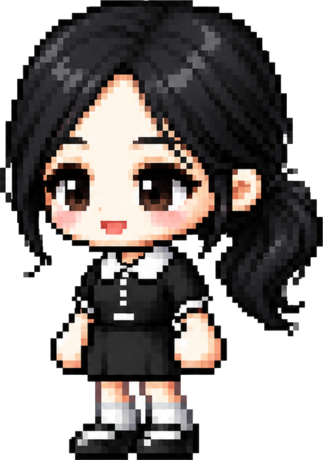
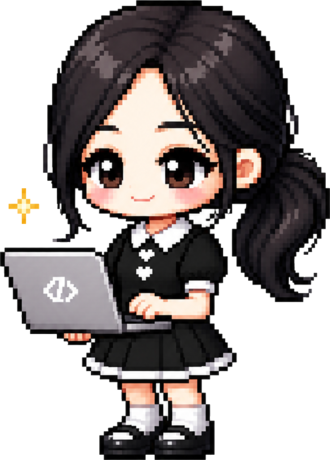
feat(tappytype): SEO 메타 단일 소스 헬퍼·main 랜드마크·접근성 100 / 만든 사람 노트북 캐릭터 교체
- SEO 단일 소스: scripts/tappytype/seo.config.ts(상수) + build-meta.ts 생성기.
  값은 config 한 곳에서만 수정 후 `pnpm tappytype:meta`로 index.html
  <!-- SEO:START --> ~ <!-- SEO:END --> 블록(title·OG·Twitter·robots·
  theme-color·canonical·JSON-LD) 일괄 주입. 멱등.
- 정적 페이지라 OG/Twitter는 빌드타임 주입(스크레이퍼는 JS 미실행)
- 접근성: <main> 랜드마크 추가 → Lighthouse A11y 98→100
- SEO 보강: Twitter 카드, og:site_name·locale·image 치수·alt, JSON-LD(WebSite+SoftwareApplication)
- 만든 사람 캐릭터: 후드티 → 노트북 든 원피스 버전으로 교체(width/height 동기화)
- Lighthouse 모바일: 접근성·Best Practices·SEO·Agentic 모두 100

diff --git a/public/tappytype/index.html b/public/tappytype/index.html
@@ -3,6 +3,7 @@
 <head>
 <meta charset="utf-8">
 <meta name="viewport" content="width=device-width, initial-scale=1">
+<!-- SEO:START — scripts/tappytype/seo.config.ts 에서 값 수정 후 `pnpm tappytype:meta` 실행. 이 블록은 생성되므로 직접 수정 금지 -->
 <title>TappyType — 내 손글씨가 진짜 폰트가 돼요</title>
 <meta name="description" content="아이패드와 애플펜슬로 만드는 나만의 한글 손글씨 폰트. 몇 글자만 쓰면 AI가 나머지를 내 글씨체로 채우고, 진짜 .ttf 폰트로 내보내요.">
 <meta property="og:title" content="TappyType — 내 손글씨가 진짜 폰트가 돼요">
@@ -10,7 +11,48 @@
 <meta property="og:image" content="https://usejiin.link/tappytype/assets/og-image.jpg">
 <meta property="og:type" content="website">
 <meta property="og:url" content="https://usejiin.link/tappytype">
+<meta property="og:site_name" content="TappyType">
+<meta property="og:locale" content="ko_KR">
+<meta property="og:locale:alternate" content="en_US">
+<meta property="og:image:width" content="1024">
+<meta property="og:image:height" content="1024">
+<meta property="og:image:alt" content="TappyType — 아이패드 손글씨 폰트 메이커">
+<meta name="twitter:card" content="summary_large_image">
+<meta name="twitter:title" content="TappyType — 내 손글씨가 진짜 폰트가 돼요">
+<meta name="twitter:description" content="애플펜슬로 몇 글자만 쓰면 AI가 나머지 한글을 내 글씨체로 채워요. 진짜 폰트(.ttf)로 내보내서 어디서든 쓰세요.">
+<meta name="twitter:image" content="https://usejiin.link/tappytype/assets/og-image.jpg">
+<meta name="robots" content="index, follow">
+<meta name="theme-color" content="#FFF7F3">
 <link rel="canonical" href="https://usejiin.link/tappytype">
+<script type="application/ld+json">
+{
+  "@context": "https://schema.org",
+  "@graph": [
+    {
+      "@type": "WebSite",
+      "@id": "https://usejiin.link/tappytype/#website",
+      "url": "https://usejiin.link/tappytype",
+      "name": "TappyType",
+      "inLanguage": "ko",
+      "description": "아이패드와 애플펜슬로 만드는 나만의 한글 손글씨 폰트. 몇 글자만 쓰면 AI가 나머지를 내 글씨체로 채우고, 진짜 .ttf 폰트로 내보내요."
+    },
+    {
+      "@type": "SoftwareApplication",
+      "name": "TappyType",
+      "applicationCategory": "DesignApplication",
+      "operatingSystem": "iPadOS",
+      "url": "https://usejiin.link/tappytype",
+      "image": "https://usejiin.link/tappytype/assets/og-image.jpg",
+      "inLanguage": [
+        "ko",
+        "en"
+      ],
+      "description": "아이패드와 애플펜슬로 몇 글자만 쓰면 AI가 나머지 한글을 내 글씨체로 채우고, 진짜 .ttf 폰트로 내보내는 손글씨 폰트 메이커."
+    }
+  ]
+}
+</script>
+<!-- SEO:END -->
 <link rel="icon" type="image/png" href="/tappytype/assets/favicon.png">
 <link rel="apple-touch-icon" href="/tappytype/assets/icon-180.png">
 <link rel="preconnect" href="https://fonts.googleapis.com">
@@ -334,6 +376,7 @@ footer .pen-sign{font-family:var(--pen);font-size:1.4rem;color:var(--rose-ink);m
   <button class="lang-toggle" id="langToggle" aria-label="Switch language">EN</button>
 </nav>
 
+<main>
 <header class="hero">
   <div>
     <span class="badge">✦ <span data-i18n="badge">iPad 전용 · Apple Pencil</span></span>
@@ -474,7 +517,7 @@ footer .pen-sign{font-family:var(--pen);font-size:1.4rem;color:var(--rose-ink);m
   <div class="creator-note">
     <span class="doodle">
       <svg class="ring" viewBox="0 0 200 200" aria-hidden="true"><path d="M101 13 C 152 11 191 55 189 103 C 187 152 146 190 99 188 C 49 186 11 145 13 99 C 15 54 53 15 101 13"/></svg>
-      <img src="/tappytype/assets/creator-jiin.png" alt="앱을 만든 도트 캐릭터" width="340" height="297">
+      <img src="/tappytype/assets/creator-jiin.png" alt="앱을 만든 도트 캐릭터" width="330" height="460">
     </span>
     <span class="sec-label" data-i18n="mk_label">만든 사람</span>
     <h2 data-i18n="mk_title">아홉 살 때 만난 친구 둘이서 만들어요</h2>
@@ -482,6 +525,7 @@ footer .pen-sign{font-family:var(--pen);font-size:1.4rem;color:var(--rose-ink);m
     <a href="https://usejiin.link" target="_blank" rel="noopener" data-i18n="mk_link">→ 포트폴리오 보기</a>
   </div>
 </section>
+</main>
 
 <footer>
   <div class="fbrand">TappyType</div>

diff --git a/scripts/tappytype/build-meta.ts b/scripts/tappytype/build-meta.ts
@@ -1,0 +1,96 @@
+/**
+ * TAPPYTYPE_SEO 상수를 읽어 public/tappytype/index.html 의
+ * <!-- SEO:START --> ~ <!-- SEO:END --> 블록(메타 태그 + JSON-LD)을 생성·주입한다.
+ *
+ * 실행: pnpm tappytype:meta
+ * 멱등 — 값이 그대로면 파일을 건드리지 않는다.
+ */
+import { readFileSync, writeFileSync } from 'node:fs'
+import path from 'node:path'
+
+import { TAPPYTYPE_SEO as s } from './seo.config'
+
+const TARGET = path.join(process.cwd(), 'public/tappytype/index.html')
+const START = '<!-- SEO:START'
+const END = '<!-- SEO:END -->'
+
+const esc = (v: string) =>
+  v
+    .replace(/&/g, '&amp;')
+    .replace(/</g, '&lt;')
+    .replace(/>/g, '&gt;')
+    .replace(/"/g, '&quot;')
+
+function buildBlock(): string {
+  const jsonLd = {
+    '@context': 'https://schema.org',
+    '@graph': [
+      {
+        '@type': 'WebSite',
+        '@id': `${s.url}/#website`,
+        url: s.url,
+        name: s.siteName,
+        inLanguage: 'ko',
+        description: s.description,
+      },
+      {
+        '@type': 'SoftwareApplication',
+        name: s.siteName,
+        applicationCategory: s.jsonLd.applicationCategory,
+        operatingSystem: s.jsonLd.operatingSystem,
+        url: s.url,
+        image: s.image,
+        inLanguage: s.jsonLd.inLanguage,
+        description: s.jsonLd.description,
+      },
+    ],
+  }
+
+  return [
+    `<title>${esc(s.title)}</title>`,
+    `<meta name="description" content="${esc(s.description)}">`,
+    `<meta property="og:title" content="${esc(s.title)}">`,
+    `<meta property="og:description" content="${esc(s.shareDescription)}">`,
+    `<meta property="og:image" content="${esc(s.image)}">`,
+    `<meta property="og:type" content="website">`,
+    `<meta property="og:url" content="${esc(s.url)}">`,
+    `<meta property="og:site_name" content="${esc(s.siteName)}">`,
+    `<meta property="og:locale" content="${s.locale}">`,
+    `<meta property="og:locale:alternate" content="${s.altLocale}">`,
+    `<meta property="og:image:width" content="${s.imageWidth}">`,
+    `<meta property="og:image:height" content="${s.imageHeight}">`,
+    `<meta property="og:image:alt" content="${esc(s.imageAlt)}">`,
+    `<meta name="twitter:card" content="${s.twitterCard}">`,
+    `<meta name="twitter:title" content="${esc(s.title)}">`,
+    `<meta name="twitter:description" content="${esc(s.shareDescription)}">`,
+    `<meta name="twitter:image" content="${esc(s.image)}">`,
+    `<meta name="robots" content="index, follow">`,
+    `<meta name="theme-color" content="${s.themeColor}">`,
+    `<link rel="canonical" href="${esc(s.url)}">`,
+    `<script type="application/ld+json">`,
+    JSON.stringify(jsonLd, null, 2),
+    `</script>`,
+  ].join('\n')
+}
+
+function main() {
+  const html = readFileSync(TARGET, 'utf8')
+  const startIdx = html.indexOf(START)
+  const endIdx = html.indexOf(END)
+  if (startIdx === -1 || endIdx === -1) {
+    throw new Error(
+      `SEO 마커를 찾지 못함 (${START} ... ${END}) — ${path.relative(process.cwd(), TARGET)}`,
+    )
+  }
+  const startTagEnd = html.indexOf('-->', startIdx) + 3
+  const next = `${html.slice(0, startTagEnd)}\n${buildBlock()}\n${html.slice(endIdx)}`
+
+  if (next === html) {
+    console.log('SEO 메타 변화 없음 (이미 최신).')
+    return
+  }
+  writeFileSync(TARGET, next)
+  console.log('SEO 메타 갱신 완료 → public/tappytype/index.html')
+}
+
+main()

diff --git a/scripts/tappytype/seo.config.ts b/scripts/tappytype/seo.config.ts
@@ -1,0 +1,37 @@
+/**
+ * tappytype 랜딩 SEO 메타데이터 — 단일 소스(상수).
+ *
+ * 검색·공유 미리보기에 쓰는 모든 값을 여기 한 곳에서만 고친다.
+ * 정적 페이지라 OG·Twitter 메타는 초기 HTML에 있어야 하므로(카카오톡·Slack·
+ * Twitter 스크레이퍼는 JS를 실행하지 않음) 런타임이 아니라 빌드타임에 주입한다.
+ *
+ * 값을 바꾼 뒤 `pnpm tappytype:meta`를 실행하면
+ * public/tappytype/index.html 의 <!-- SEO:START --> ~ <!-- SEO:END --> 블록이 갱신된다.
+ */
+export const TAPPYTYPE_SEO = {
+  url: 'https://usejiin.link/tappytype',
+  siteName: 'TappyType',
+  title: 'TappyType — 내 손글씨가 진짜 폰트가 돼요',
+  /** 검색 결과·meta description 용 (조금 더 설명적으로) */
+  description:
+    '아이패드와 애플펜슬로 만드는 나만의 한글 손글씨 폰트. 몇 글자만 쓰면 AI가 나머지를 내 글씨체로 채우고, 진짜 .ttf 폰트로 내보내요.',
+  /** OG·Twitter 공유 카드 용 (조금 더 짧고 후킹하게) */
+  shareDescription:
+    '애플펜슬로 몇 글자만 쓰면 AI가 나머지 한글을 내 글씨체로 채워요. 진짜 폰트(.ttf)로 내보내서 어디서든 쓰세요.',
+  image: 'https://usejiin.link/tappytype/assets/og-image.jpg',
+  imageAlt: 'TappyType — 아이패드 손글씨 폰트 메이커',
+  imageWidth: 1024,
+  imageHeight: 1024,
+  locale: 'ko_KR',
+  altLocale: 'en_US',
+  themeColor: '#FFF7F3',
+  twitterCard: 'summary_large_image',
+  /** schema.org JSON-LD(구조화 데이터) 보조 값 */
+  jsonLd: {
+    applicationCategory: 'DesignApplication',
+    operatingSystem: 'iPadOS',
+    inLanguage: ['ko', 'en'],
+    description:
+      '아이패드와 애플펜슬로 몇 글자만 쓰면 AI가 나머지 한글을 내 글씨체로 채우고, 진짜 .ttf 폰트로 내보내는 손글씨 폰트 메이커.',
+  },
+} as const
